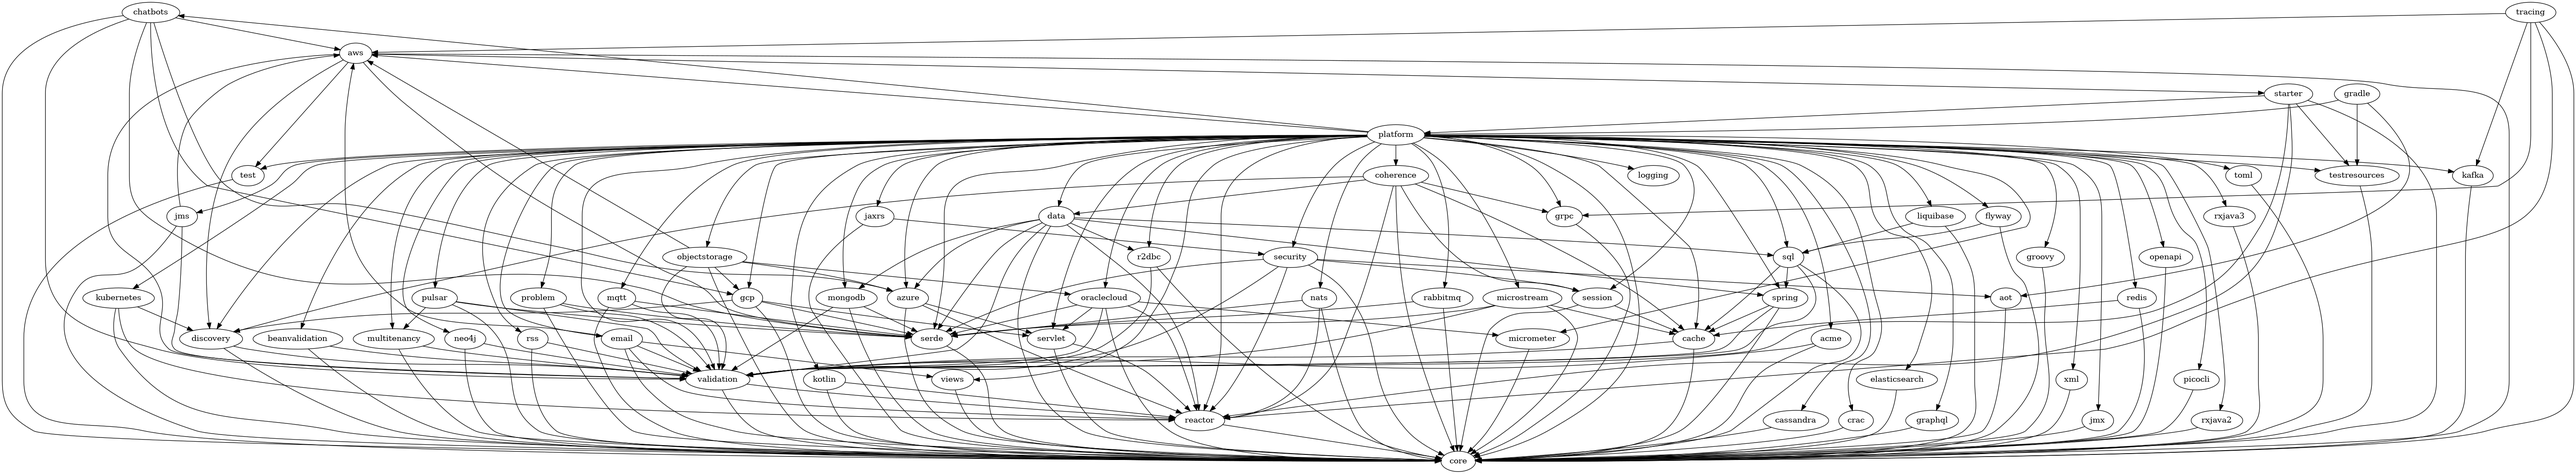
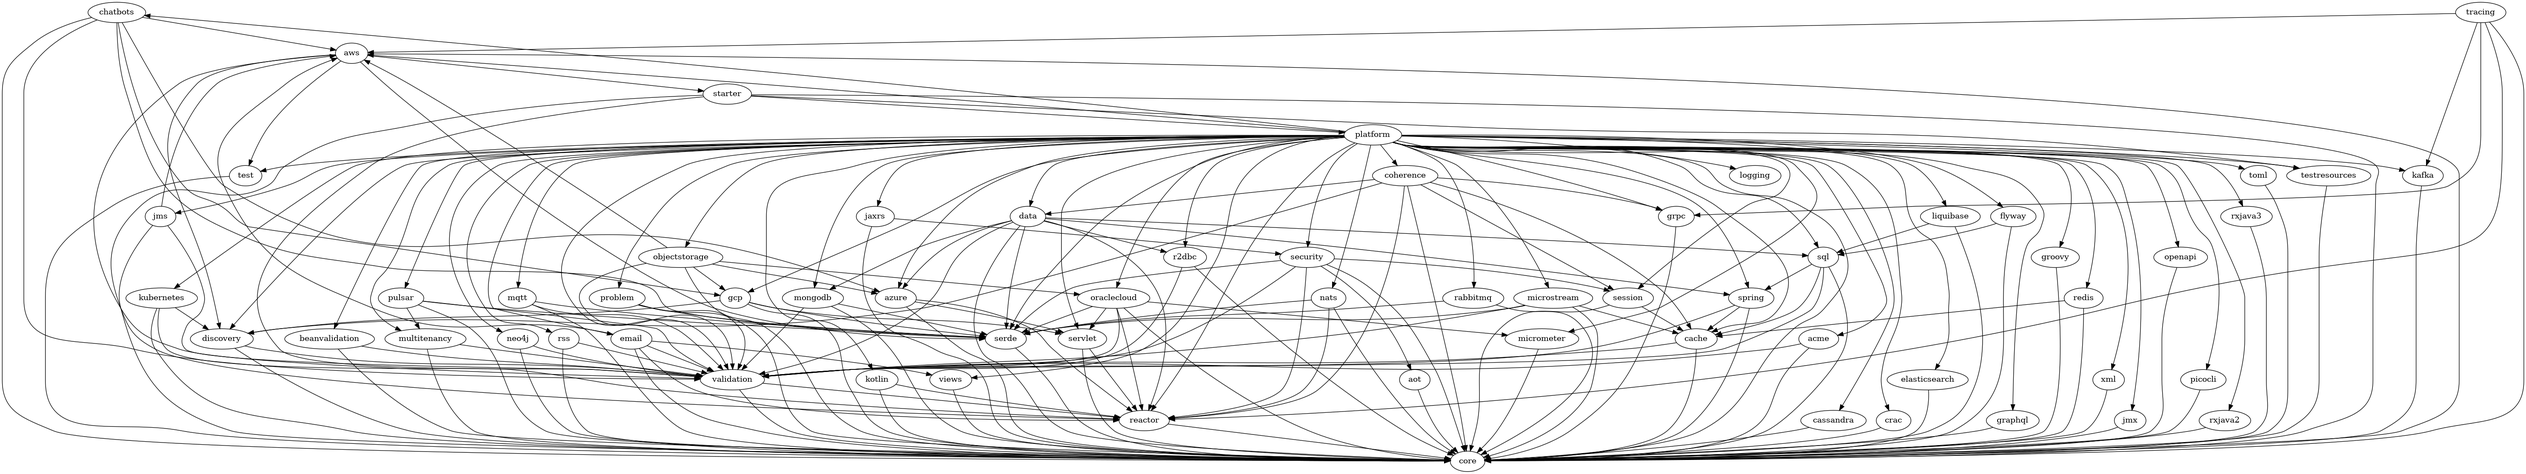
deploy: c268e984363c559ee8d05fbf542d59e98fe998f3

diff --git a/index.html b/index.html
@@ -80,7 +80,7 @@
 <body>
 <div class="header">
     <img src="https://micronaut.io/wp-content/uploads/2020/11/MIcronautLogo_Horizontal.svg">
-    <div class="right">Generated at Apr 23, 2023, 6:26:32 PM</div>
+    <div class="right">Generated at Apr 24, 2023, 12:27:37 AM</div>
 </div>
 <div class="row">
     <nav>
@@ -222,13 +222,13 @@
 <TR><TD>&#128154; Settings 6.4.1</TD></TR>
 <TR><TD>&#128154; <B>Build: <FONT COLOR="darkgreen">PASSING</FONT></B></TD></TR>
 </TABLE></li>
-        <li class="item" onclick="showImage(this, 'project-graph-gradle.png')"><TABLE BORDER="0" CELLSPACING="1" CELLPADDING="1" STYLE="rounded">
-<TR><TD><B>gradle 4.0.0-SNAPSHOT</B></TD></TR>
-<TR><TD>&#10060; Status SNAPSHOT</TD></TR>
-<TR><TD>&#128154; Micronaut 4.0.0-M1</TD></TR>
-<TR><TD>&#128154; Gradle 8.0.2</TD></TR>
-<TR><TD>&#128154; Settings 6.4.1</TD></TR>
-<TR><TD>&#128154; <B>Build: <FONT COLOR="darkgreen">PASSING</FONT></B></TD></TR>
+        <li class="item" onclick="showImage(this, 'project-graph-gradleplugin.png')"><TABLE BORDER="0" CELLSPACING="1" CELLPADDING="1" STYLE="rounded">
+<TR><TD><B>gradleplugin ERROR</B></TD></TR>
+<TR><TD>&#128155; Status ERROR</TD></TR>
+<TR><TD>&#10060; Micronaut ERROR</TD></TR>
+<TR><TD>&#128155; Gradle ERROR</TD></TR>
+<TR><TD>&#128155; Settings ERROR</TD></TR>
+<TR><TD>&#128155; <B>Build: <FONT COLOR="yellow">ERROR</FONT></B></TD></TR>
 </TABLE></li>
         <li class="item" onclick="showImage(this, 'project-graph-graphql.png')"><TABLE BORDER="0" CELLSPACING="1" CELLPADDING="1" STYLE="rounded">
 <TR><TD><B>graphql 4.0.0-SNAPSHOT</B></TD></TR>
@@ -666,7 +666,7 @@
                        <img id="project-graph-gcp.png" src="project-graph-gcp.png">
                    </div>
 <div class="graph">       
-                       <img id="project-graph-gradle.png" src="project-graph-gradle.png">
+                       <img id="project-graph-gradleplugin.png" src="project-graph-gradleplugin.png">
                    </div>
 <div class="graph">       
                        <img id="project-graph-graphql.png" src="project-graph-graphql.png">
